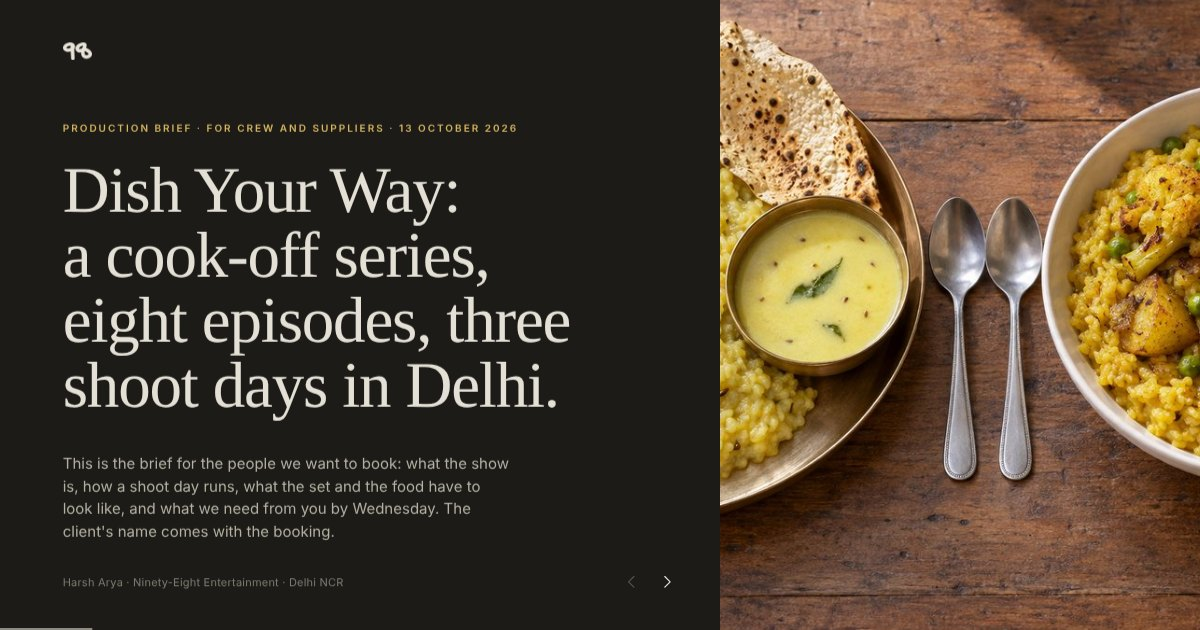
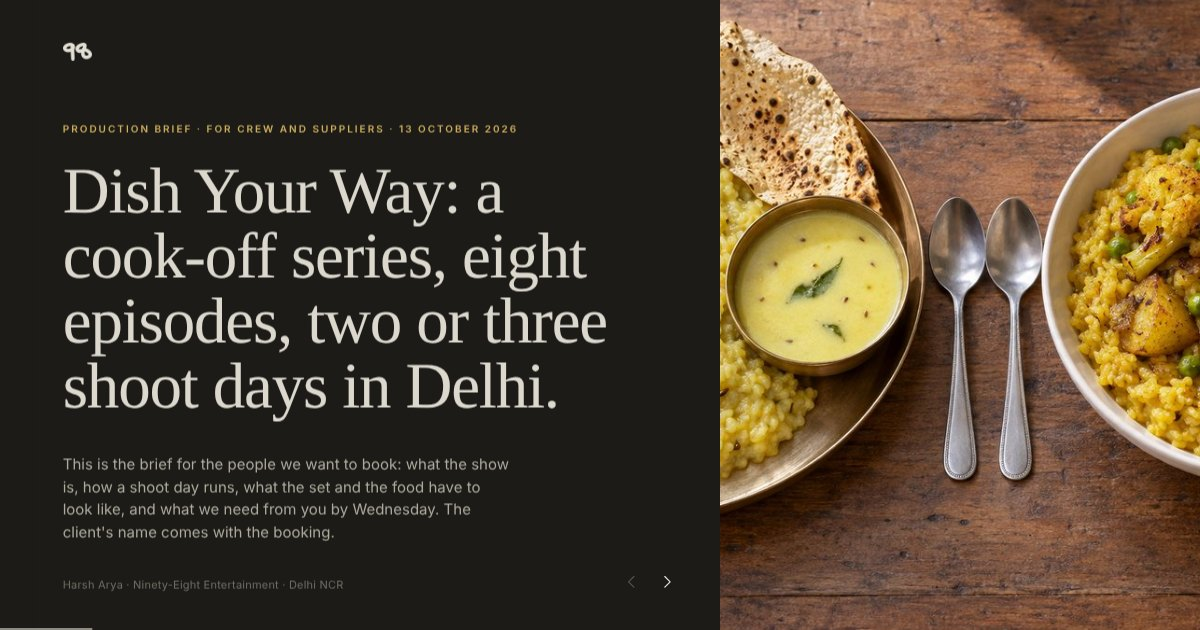
Dish Your Way vendor brief: host pickups, a vegetable episode 2, the two-day option
The host's November questions are shot as matched-eyeline pickups in his 21 October block, not played on a screen at the station. Episode 2 is Bengal's shukto against Kerala's avial. The dates and the count note the client's two-day option, 21 and 22 October, and ask for shoot days quoted by the day.

Claude-Session: https://claude.ai/code/session_01LwMtagam4JSZGtoXcBjuwD

diff --git a/dyw-brief-5d9d62/index.html b/dyw-brief-5d9d62/index.html
@@ -282,7 +282,9 @@ body.on-cover .hint{display:inline}
 }
 
 @media print{
+  @page{size:13.333in 7.5in;margin:0}
   :root{--u:.13333in}
+  .slide *{animation:none!important}
   html,body{background:#fff;overflow:visible;height:auto}
   .deck{width:auto;height:auto}
   .slide{position:relative;inset:auto;width:13.333in;height:7.5in;visibility:visible;opacity:1;animation:none;break-after:page;page-break-after:always;overflow:hidden}
@@ -356,6 +358,98 @@ table .pick td{background:var(--hi)}
 .tiles figcaption b{display:block;font-weight:600;color:var(--fg)}
 @media (max-aspect-ratio:1/1),(max-width:760px){.tiles{grid-template-columns:1fr 1fr}}
 
+.index5{display:grid;grid-template-columns:repeat(5,1fr);gap:calc(var(--u)*2)}
+.index5 .num{font:italic 500 calc(var(--u)*3.4)/1 var(--serif);color:var(--acc);margin-bottom:calc(var(--u)*.5)}
+.index5 h3{padding-bottom:calc(var(--u)*.5);margin-bottom:calc(var(--u)*.3);border-bottom:1px solid var(--fg);text-transform:none;font:500 calc(var(--fs-body)*1.15)/1.25 var(--serif);letter-spacing:-.01em}
+.index5 ul{list-style:none;padding:0;margin:0}
+.index5 li{display:flex;justify-content:space-between;align-items:baseline;gap:.8em;font-size:clamp(11px,calc(var(--u)*.92),26px);line-height:1.35;color:var(--fg2);padding:.5em 0 .45em;border-bottom:1px solid var(--rule)}
+.index5 .pg{font:600 var(--fs-label)/1.4 var(--sans);letter-spacing:.12em;color:var(--lab);white-space:nowrap}
+.tier{display:flex;flex-direction:column;gap:calc(var(--u)*.7);min-width:0}
+.tier .pics{gap:calc(var(--u)*.4)}
+.tier .pics img{aspect-ratio:4/3}
+.tier h3{margin-top:calc(var(--u)*.3)}
+.tier p.small{line-height:1.45}
+#budget table{font-size:clamp(10.5px,calc(var(--u)*.92),25px)}
+#budget .ledger th.r{white-space:normal}
+#requirements .rows .row{grid-template-columns:minmax(0,1fr);gap:.2em;padding:.55em 0 .5em}
+#requirements .row h3{text-transform:none;font:500 calc(var(--fs-body)*1.05)/1.3 var(--serif);letter-spacing:-.01em}
+#format .row{padding:.6em 0 .54em}
+@media (max-aspect-ratio:1/1),(max-width:760px){.index5{grid-template-columns:1fr}}
+#budget .ledger td{padding-top:calc(var(--u)*.34);padding-bottom:calc(var(--u)*.34)}
+#budget .ledger .what{font-size:clamp(9.5px,calc(var(--u)*.76),22px)}
+.tier p.small{font-size:clamp(11px,calc(var(--u)*.92),27px);line-height:1.42}
+#tiers .pics{gap:calc(var(--u)*.35)}
+#format .row{padding:.5em 0 .46em}
+#format .row p{line-height:1.42}
+#pictures .tiles figcaption{line-height:1.32}
+#locations table td{padding-top:calc(var(--u)*.28);padding-bottom:calc(var(--u)*.28)}
+#pictures .tiles img{aspect-ratio:16/9.2}
+#pictures .tiles{gap:calc(var(--u)*1) calc(var(--u)*1)}
+#budget td.r{padding-left:calc(var(--u)*.7)}
+#budget tr.total td.r{font-size:clamp(10px,calc(var(--u)*.88),24px)}
+
+.ph{text-decoration:underline dotted var(--lab);text-decoration-thickness:1px;text-underline-offset:.2em}
+.tier.rec h3{color:var(--acc)}
+.hstrip{display:flex;gap:calc(var(--u)*1.2);overflow-x:auto;overflow-y:hidden;scroll-snap-type:x proximity;scrollbar-width:none;overscroll-behavior-x:contain;min-height:0;padding-bottom:calc(var(--u)*.3)}
+.hstrip::-webkit-scrollbar{display:none}
+.hstrip figure{flex:none;width:calc(var(--u)*33);margin:0;scroll-snap-align:start}
+.hstrip img{width:100%;aspect-ratio:4/3;object-fit:cover;display:block;background:var(--tile)}
+.hstrip figcaption{font-size:clamp(10.5px,calc(var(--u)*.86),24px);line-height:1.38;color:var(--fg3);margin-top:calc(var(--u)*.55);text-wrap:pretty}
+.hstrip figcaption b{display:block;font-weight:600;color:var(--fg)}
+#stylingbook .lede{max-width:62em;margin-bottom:calc(var(--u)*1.2)}
+.boardcols{grid-template-columns:minmax(0,1fr) calc(var(--u)*47);gap:calc(var(--u)*3)}
+.board{display:grid;grid-template-columns:repeat(3,1fr);gap:calc(var(--u)*1)}
+.board figure{margin:0;min-width:0}
+.board figure:nth-child(3n+2){margin-top:calc(var(--u)*2.2)}
+.board img{width:100%;aspect-ratio:1;object-fit:cover;display:block;background:var(--tile)}
+.board figcaption{font:600 var(--fs-label)/1.4 var(--sans);letter-spacing:.12em;text-transform:uppercase;color:var(--fg3);margin-top:calc(var(--u)*.45)}
+.slide.is-on .board figure{animation:rise .9s var(--ease) both;animation-delay:.5s}
+.slide.is-on .board figure:nth-child(2){animation-delay:.58s}
+.slide.is-on .board figure:nth-child(3){animation-delay:.66s}
+.slide.is-on .board figure:nth-child(4){animation-delay:.74s}
+.slide.is-on .board figure:nth-child(5){animation-delay:.82s}
+.slide.is-on .board figure:nth-child(6){animation-delay:.9s}
+#textures .rows.stack>p{font-size:var(--fs-body);line-height:1.5}
+#textures .rule-top{padding-top:calc(var(--u)*.7)}
+#textures .rule-top h3{margin-bottom:calc(var(--u)*.35)}
+@media (max-aspect-ratio:1/1),(max-width:760px){
+  .boardcols{grid-template-columns:1fr}
+  .board{grid-template-columns:1fr 1fr}
+  .board figure:nth-child(3n+2){margin-top:0}
+  .hstrip figure{width:72vw}
+  .slide.is-on .board figure{animation:none}
+}
+@media print{
+  .hstrip{display:grid;grid-template-columns:repeat(4,1fr);gap:calc(var(--u)*.9) calc(var(--u)*1.2);overflow:visible}
+  .hstrip figure{width:auto}
+  .hstrip img{aspect-ratio:16/8.4}
+  .hstrip figcaption{margin-top:calc(var(--u)*.35);line-height:1.3}
+  #stylingbook .lede{margin-bottom:calc(var(--u)*.8)}
+}
+#onepage .stats{margin-top:calc(var(--u)*1.8);padding-top:calc(var(--u)*1.3)}
+#tiers .pics img{aspect-ratio:16/10}
+#tiers .lede{margin-bottom:calc(var(--u)*1.1);max-width:60em}
+#budget .ledger td{padding-top:calc(var(--u)*.3);padding-bottom:calc(var(--u)*.3)}
+#budget .ledger .what{font-size:clamp(9.5px,calc(var(--u)*.74),22px)}
+.team .row{padding:.52em 0 .48em}
+#team .lede{margin-bottom:calc(var(--u)*1.1)}
+#shortlist tr.pick td:first-child{box-shadow:inset 3px 0 0 var(--acc);padding-left:calc(var(--u)*.7)}
+#cookscost .row{padding:.7em 0 .64em}
+.boardcols{grid-template-columns:minmax(0,1fr) calc(var(--u)*45)}
+.board figure:nth-child(3n+2){margin-top:calc(var(--u)*1.8)}
+.plan .date{padding:calc(var(--u)*.36) 0}
+#format .row{padding:.46em 0 .42em}
+#tiers .pics img{aspect-ratio:16/9.4}
+.tier{gap:calc(var(--u)*.55)}
+#budget .ledger td{padding-top:calc(var(--u)*.26);padding-bottom:calc(var(--u)*.26)}
+.team .row{padding:.46em 0 .42em}
+#weeks .date{font-size:var(--fs-small)}
+#next .ways li{padding:.72em 0 .66em}
+#budget h1{margin-bottom:calc(var(--u)*.6)}
+#budget .cols-3-1{grid-template-columns:2.3fr .9fr}
+.team .row{grid-template-columns:minmax(7.4em,.36fr) minmax(0,1fr);gap:1.2em}
+@media (max-aspect-ratio:1/1),(max-width:760px){.boardcols{grid-template-columns:1fr}.board figure:nth-child(3n+2){margin-top:0}}
+
 </style>
 
 <main class="deck" id="deck">
@@ -368,7 +462,7 @@ table .pick td{background:var(--hi)}
   <div class="cover-body">
     <div class="cover-copy">
       <p class="label">Production brief · for crew and suppliers · 13 October 2026</p>
-      <h1 class="h1">Dish Your Way: a cook-off series, eight episodes, three shoot days in Delhi.</h1>
+      <h1 class="h1">Dish Your Way: a cook-off series, eight episodes, two or three shoot days in Delhi.</h1>
       <p class="lede">This is the brief for the people we want to book: what the show is, how a shoot day runs, what the set and the food have to look like, and what we need from you by Wednesday. The client's name comes with the booking.</p>
     </div>
   </div>
@@ -385,13 +479,13 @@ table .pick td{background:var(--hi)}
     <div class="cols cols-2 tight">
       <div class="rows">
         <div class="row"><h3>The format</h3><p>One heritage dish an episode, cooked two ways by two home cooks from two states, side by side and in real time. A host opens the episode and asks each cook a question. Two tasters from the client taste blind and say which bowl they reached for, and why. No scores and no winner.</p></div>
-        <div class="row"><h3>The count</h3><p>Eight episodes, sixteen cooks, three shoot days: three episodes on 21 October, three on 12 November, two on 13 November. Six cooks a day, two at a time.</p></div>
+        <div class="row"><h3>The count</h3><p>Eight episodes, sixteen cooks. Three shoot days, 21 October and 12 and 13 November, or two, 21 and 22 October at four a day. Six or eight cooks a day, two at a time.</p></div>
         <div class="row"><h3>The output</h3><p>For each episode: a 60-second vertical reel, a 6 to 8 minute episode for YouTube, two 15-second teasers, and stills for the grid. Eight of each.</p></div>
       </div>
       <div class="rows">
         <div class="row"><h3>The look</h3><p>A traditional Indian kitchen, not modern and not a studio. Two matching cooking stations under one window, daylight as the key, plants, brass and clay. Page 5 is the set brief.</p></div>
         <div class="row"><h3>The product</h3><p>The client makes ghee and cold-pressed oils. The product is in the cooking and never on the table as a prop: the same measure from the same jar goes into both pans, and the pour is the one shot that repeats in every episode.</p></div>
-        <div class="row"><h3>Where</h3><p>Delhi NCR. A haveli in Chandni Chowk, two garden estates and a restaurant kitchen at Aerocity are the four places we want; two are recced on 15 and 16 October and one is booked for all three days. Page 10 has them.</p></div>
+        <div class="row"><h3>Where</h3><p>Delhi NCR. A haveli in Chandni Chowk, two garden estates and a restaurant kitchen at Aerocity are the four places we want; two are recced on 15 and 16 October and one is booked for all the shoot days. Page 10 has them.</p></div>
       </div>
     </div>
   </div>
@@ -422,7 +516,7 @@ table .pick td{background:var(--hi)}
       </div>
     </div>
   </div>
-  <footer class="foot"><span>If the client's yes slips from Wednesday 14 to Friday 16, shoot day one moves to Saturday 24 October and everything else holds. We will tell you on Friday either way.</span></footer>
+  <footer class="foot"><span>If the client's yes slips from Wednesday 14 to Friday 16, shoot day one moves to Saturday 24 October and everything else holds. The client may also take a two-day schedule, 21 and 22 October, four episodes a day, in place of the November days; quote the shoot days by the day so either works. We will tell you on Friday either way.</span></footer>
 </section>
 
 <!-- 4 · A shoot day -->
@@ -443,12 +537,12 @@ table .pick td{background:var(--hi)}
         <div class="date"><div class="d">5:00</div><div>Stills of the dishes and the cooks for the grid. Wrap by 6.</div></div>
       </div>
       <div class="rows stack">
-        <div class="card rec"><h3>The host's block</h3><p>Two to three hours on 21 October, on the set: the opening and the dish announcement for all eight episodes, and questions to that day's cooks. For the November episodes the host's question to each cook is recorded to camera on this day and played to them at the station; they answer on camera.</p></div>
+        <div class="card rec"><h3>The host's block</h3><p>Three hours on 21 October, on the set: the opening and the dish announcement for all eight episodes, and questions to that day's cooks in person. For the November cooks, his questions and his reactions are shot single-camera on the same day, against the same background and light, at matched eyelines; in November the cooks answer towards the director on the host's mark, and the edit cuts the two together. No screens on set.</p></div>
         <div class="card"><h3>Cameras</h3><p class="small">Three on the floor, two locked overheads, a macro for the pour and the tadka. Lavaliers on both cooks and the host; a boom on the pans.</p></div>
       </div>
     </div>
   </div>
-  <footer class="foot"><span>Three days, eight episodes: 21 October for episodes 1 to 3, 12 November for 4 to 6, 13 November for 7 and 8. The November days can become one long day if the location allows a 7 am start and a lit tasting.</span></footer>
+  <footer class="foot"><span>Three days, eight episodes: 21 October for episodes 1 to 3, 12 November for 4 to 6, 13 November for 7 and 8. If the client takes the two-day schedule, the eight are shot on 21 and 22 October, four a day on two pairs of stations, with the tastings at noon and at four.</span></footer>
 </section>
 
 <!-- 5 · The set -->
@@ -507,7 +601,7 @@ table .pick td{background:var(--hi)}
       <thead><tr><th>Ep</th><th>The dish</th><th>The two kitchens</th><th>In the pan</th><th>On the set</th><th>Shoot</th></tr></thead>
       <tbody>
         <tr><td>1</td><td>Khichdi</td><td>Gujarat against Bengal</td><td>Ghee, two spoons each: poured on at the table, or fried in</td><td>A kansa thali and a plain white bowl; kadhi and papad; fried cauliflower and potato</td><td>21 Oct</td></tr>
-        <tr><td>2</td><td>Fish curry</td><td>Bengal against Kerala</td><td>Mustard oil against coconut oil, and ghee on the rice</td><td>A manchatti and a steel kadhai; a banana leaf; rice both sides</td><td>21 Oct</td></tr>
+        <tr><td>2</td><td>Mixed vegetables</td><td>Bengal's shukto against Kerala's avial</td><td>Mustard oil and ghee in the shukto, coconut oil in the avial, ghee on the rice</td><td>A lohe ki kadhai and an uruli; a banana leaf; rice both sides</td><td>21 Oct</td></tr>
         <tr><td>3</td><td>Bajra roti</td><td>Haryana against Gujarat</td><td>Millet flour; ghee on the roti, ghee and jaggery on the rotla</td><td>A chulha for Haryana, a tawa for Gujarat; white makhan; a lump of gur</td><td>21 Oct</td></tr>
         <tr><td>4</td><td>Saag</td><td>Punjab against Kashmir</td><td>Mustard oil in the pan, ghee on the makki roti</td><td>Winter greens; a mathani; a degchi for the haakh</td><td>12 Nov</td></tr>
         <tr><td>5</td><td>Dal</td><td>Rajasthan against Hyderabad</td><td>Ghee in the tadka, two ways</td><td>Five dals in bowls; a tadka pan; tamarind and curry leaves</td><td>12 Nov</td></tr>
@@ -598,7 +692,7 @@ table .pick td{background:var(--hi)}
     <div class="cols cols-4 tight" style="margin-top:calc(var(--u)*2)">
       <div class="rule-top"><h3>The recce</h3><p class="small">Thursday 15 and Friday 16 October, with the art director and the DOP. The place is booked on Friday and we tell you the same evening.</p></div>
       <div class="rule-top"><h3>What it means for you</h3><p class="small">Open flame on set, a generator for power, water run to the stations, a prep tent with a fridge, and a 7 am call. A restaurant kitchen means an early finish before its service instead.</p></div>
-      <div class="rule-top"><h3>One place for three days</h3><p class="small">We want the same place on 21 October and 12 and 13 November, with the set stored between, so it is built once.</p></div>
+      <div class="rule-top"><h3>One place for every shoot day</h3><p class="small">We want the same place for all the shoot days, with the set stored between them if they are weeks apart, so it is built once.</p></div>
       <div class="rule-top"><h3>If you know a place</h3><p class="small">A home, a farm or a kitchen in Delhi NCR with a traditional feel and a window we have not seen: tell us, with a photo, by Wednesday.</p></div>
     </div>
   </div>
